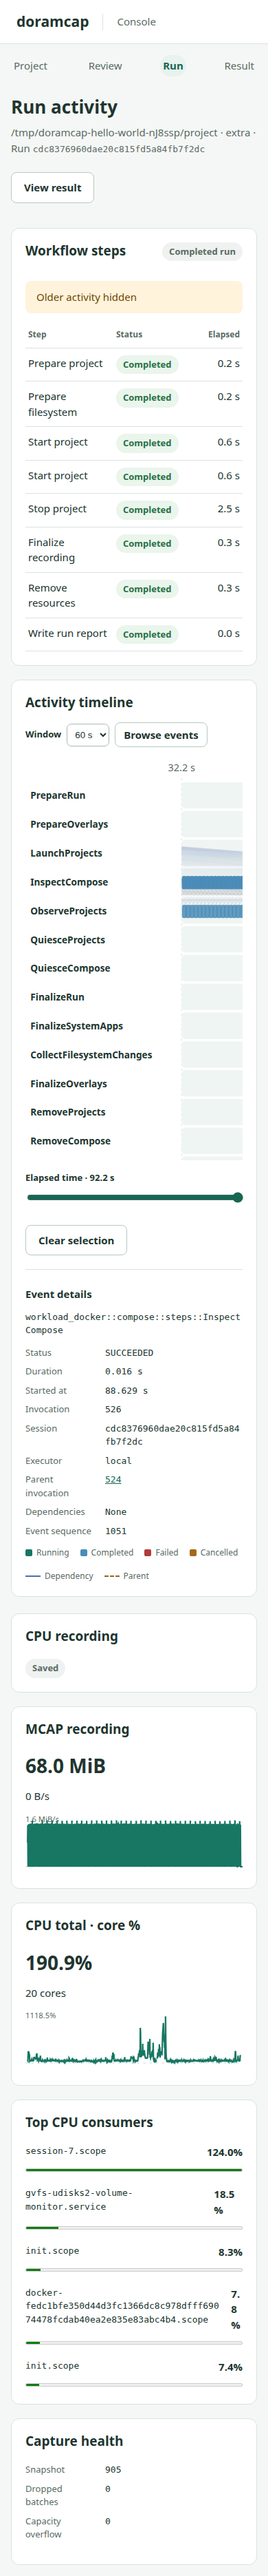
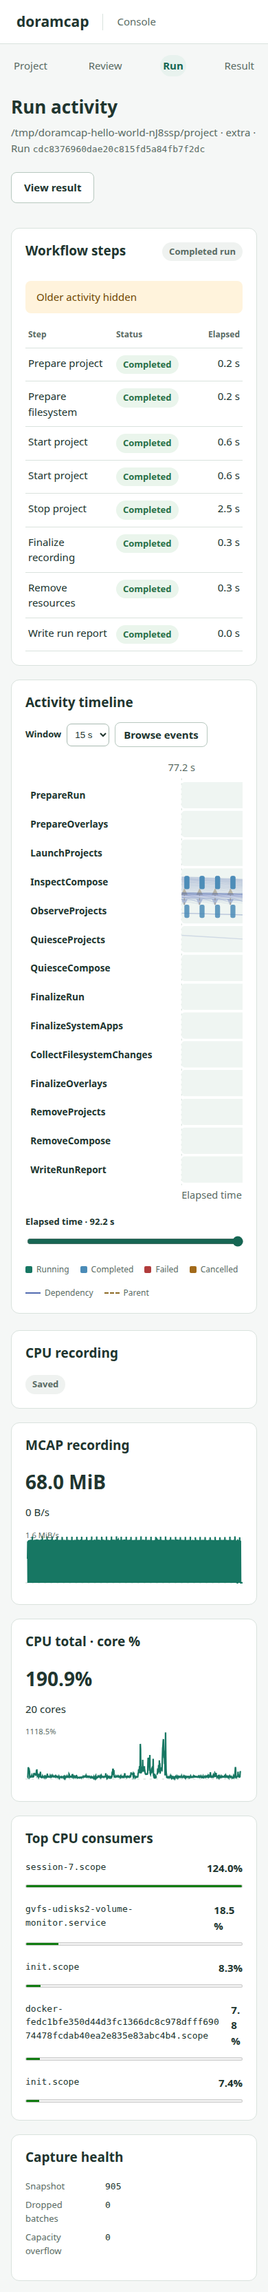
Let the activity timeline card expand to fit its rows

diff --git a/console/frontend/src/ui/tokens.css b/console/frontend/src/ui/tokens.css
@@ -1,5 +1,5 @@
 :root{font-family:system-ui,-apple-system,BlinkMacSystemFont,"Segoe UI",sans-serif;color:#20352f;background:#f5f7f6;font-size:15px;line-height:1.5}*{box-sizing:border-box}body{margin:0}button,input{font:inherit}button,a,input{outline-offset:2px}button:focus-visible,a:focus-visible,input:focus-visible{outline:2px solid #166653}.topbar{height:64px;background:#fff;border-bottom:1px solid #d9e2dd;display:flex;align-items:center;gap:20px;padding:0 48px;color:#596b64}.topbar strong{font-size:21px;color:#20352f}.divider{height:24px;width:1px;background:#d9e2dd}.host{margin-left:auto;font-size:13px}.page{max-width:1200px;margin:auto;padding:20px 64px 64px}.phase-rail{display:flex;gap:24px;align-items:center;flex-wrap:wrap;margin-bottom:28px}.phase{display:flex;gap:9px;align-items:center;padding:6px 8px;border-radius:16px;color:#596b64}.phase small{font-size:12px;font-weight:600}.phase.current{background:#e8f2ee;color:#166653;font-weight:600}.heading{display:flex;justify-content:space-between;align-items:flex-start;gap:24px;margin-bottom:36px}.heading h1{margin:0;font-size:30px;line-height:1.25;font-weight:650}.heading p{margin:10px 0 0;color:#596b64}.columns{display:grid;grid-template-columns:minmax(0,2.05fr) minmax(0,1fr);gap:24px;align-items:start}.columns>div,.columns>aside{display:grid;gap:20px}.panel{background:#fff;border:1px solid #d9e2dd;border-radius:12px;padding:28px;min-width:0}.panel h2{font-size:19px;line-height:1.3;margin:0 0 20px}.panel h3{font-size:15px;margin:24px 0 8px}.panel p{margin:12px 0}.panel-heading{display:flex;justify-content:space-between;align-items:flex-start;gap:12px}.muted{color:#596b64}.mono{font-family:ui-monospace,SFMono-Regular,Consolas,monospace;font-size:13px}.break{overflow-wrap:anywhere}label,legend{font-size:13px;font-weight:600;display:block;margin:20px 0 8px}input:not([type=checkbox]){width:100%;height:44px;border:1px solid #a8bab1;border-radius:8px;padding:0 12px;color:#20352f;background:#fff}fieldset{border:0;padding:0;margin:20px 0}.checkbox{display:flex;align-items:center;gap:10px;font-weight:400;margin:10px 0}.checkbox input{width:18px;height:18px;accent-color:#166653}.actions{display:flex;align-items:center;gap:12px;flex-wrap:wrap;margin-top:24px}.button{min-height:44px;border:1px solid transparent;border-radius:8px;padding:10px 18px;display:inline-flex;align-items:center;justify-content:center;font-weight:600;text-decoration:none;cursor:pointer}.button.primary{background:#166653;color:white}.button.secondary,.button.stop{background:#fff;border-color:#b7c8bf;color:#20352f}.button.stop{color:#8b5a13}.button:disabled{cursor:not-allowed;opacity:.55}.status{display:inline-block;border-radius:16px;padding:4px 10px;font-size:13px;font-weight:600;white-space:nowrap}.status.active{color:#166653;background:#e8f2ee}.status.success{color:#267047;background:#eaf5ec}.status.attention{color:#8b5a13;background:#fff3dc}.status.failure{color:#a33636;background:#fbecec}.status.neutral{color:#596b64;background:#eff2f0}.notice{padding:12px 16px;background:#fff3dc;color:#714800;border-radius:8px;margin:0 0 20px;overflow-wrap:anywhere}.failure-notice{background:#fbecec;color:#8b2929}.attention-panel{border-color:#e7c99b;background:#fffaf1}.table-wrap{max-width:100%}table{border-collapse:collapse;width:100%;table-layout:fixed}th,td{border-bottom:1px solid #d9e2dd;text-align:left;padding:12px 8px;vertical-align:top;overflow-wrap:anywhere}th{font-size:12px;color:#596b64}td .status{white-space:normal}.duration{text-align:right;width:90px}.outcomes{display:grid;gap:0}.outcomes>div{display:flex;align-items:center;justify-content:space-between;gap:12px;padding:12px 0;border-bottom:1px solid #d9e2dd}.unavailable{color:#596b64;font-size:14px}.sr-only{position:absolute;width:1px;height:1px;padding:0;margin:-1px;overflow:hidden;clip:rect(0,0,0,0);white-space:nowrap;border:0}@media(max-width:900px){.page{padding:20px 24px 48px}.columns{grid-template-columns:1fr}.heading{flex-wrap:wrap}.topbar{padding:0 24px}.phase-rail{gap:8px}.host{display:none}}@media(max-width:480px){.page{padding:16px}.panel{padding:20px}.heading h1{font-size:26px}.phase{padding:4px}.phase-rail{justify-content:space-between}.phase small{display:none}.button{max-width:100%}th,td{padding:10px 4px}.duration{width:60px}}
-.activity-heading{align-items:center;flex-wrap:wrap}.activity-heading h2{margin-bottom:4px}.activity-heading p{margin:0;font-size:13px}.timeline-controls{display:flex;align-items:center;gap:8px;flex-wrap:wrap}.timeline-controls label{margin:0;font-size:13px}.timeline-controls select{border:1px solid #a8bab1;border-radius:7px;background:#fff;color:#20352f;padding:7px}.timeline-toggle{min-height:36px;padding:6px 12px}.activity-scroll{overflow:auto;max-height:600px}.activity-timeline{display:block;width:100%;height:auto;margin-top:20px}.timeline-grid{stroke:#cadad2;stroke-dasharray:3 5}.timeline-lane{fill:#eff5f2}.timeline-axis{font-size:16px;fill:#596b64}.timeline-lane-label{font-size:15px;fill:#20352f;font-weight:600}.timeline-empty{font-size:13px;fill:#596b64}.timeline-legend{display:flex;flex-wrap:wrap;gap:16px;font-size:12px;color:#596b64}.timeline-legend span{display:inline-flex;align-items:center;gap:6px}.timeline-key{width:10px;height:10px;border-radius:2px}.timeline-key.running{background:#177763}.timeline-key.completed{background:#4a8bb7}.timeline-key.failed{background:#b13c3c}.timeline-key.cancelled{background:#a26a1a}@media(max-width:480px){.activity-timeline{min-width:900px}.activity-heading{align-items:flex-start}.timeline-controls{width:100%}}
+.activity-heading{align-items:center;flex-wrap:wrap}.activity-heading h2{margin-bottom:4px}.activity-heading p{margin:0;font-size:13px}.timeline-controls{display:flex;align-items:center;gap:8px;flex-wrap:wrap}.timeline-controls label{margin:0;font-size:13px}.timeline-controls select{border:1px solid #a8bab1;border-radius:7px;background:#fff;color:#20352f;padding:7px}.timeline-toggle{min-height:36px;padding:6px 12px}.activity-scroll{overflow-x:auto}.activity-timeline{display:block;width:100%;height:auto;margin-top:20px}.timeline-grid{stroke:#cadad2;stroke-dasharray:3 5}.timeline-lane{fill:#eff5f2}.timeline-axis{font-size:16px;fill:#596b64}.timeline-lane-label{font-size:15px;fill:#20352f;font-weight:600}.timeline-empty{font-size:13px;fill:#596b64}.timeline-legend{display:flex;flex-wrap:wrap;gap:16px;font-size:12px;color:#596b64}.timeline-legend span{display:inline-flex;align-items:center;gap:6px}.timeline-key{width:10px;height:10px;border-radius:2px}.timeline-key.running{background:#177763}.timeline-key.completed{background:#4a8bb7}.timeline-key.failed{background:#b13c3c}.timeline-key.cancelled{background:#a26a1a}@media(max-width:480px){.activity-timeline{min-width:900px}.activity-heading{align-items:flex-start}.timeline-controls{width:100%}}
 .timeline-event{cursor:pointer}.timeline-event:focus-visible{outline:3px solid #20352f;outline-offset:3px}.detail-grid{display:grid;grid-template-columns:minmax(0,1fr) minmax(0,2fr);gap:8px 16px;font-size:13px}.detail-grid dt{color:#596b64}.detail-grid dd{margin:0;overflow-wrap:anywhere;font-family:ui-monospace,SFMono-Regular,Consolas,monospace}.event-details{border-top:1px solid #d9e2dd;margin-top:20px}.timeline-position{margin:16px 0}.timeline-position input[type=range]{display:block;width:100%;padding:0;height:32px;accent-color:#166653}.metric-value{font-size:28px;font-weight:650}.metric-chart{display:block;width:100%;height:auto}.metric-scale{font-size:10px;fill:#596b64}.phase-link{font:inherit;border:0;background:transparent;cursor:pointer}.phase-link:hover{background:#e8f2ee}.run-view-actions{display:flex;gap:12px;flex-wrap:wrap}
 
 .event-relation{border:0;padding:0;background:transparent;color:#166653;text-decoration:underline;cursor:pointer;font:inherit;display:block;overflow-wrap:anywhere;text-align:left}

diff --git a/console/docs/102926-console-mvp.md b/console/docs/102926-console-mvp.md
@@ -823,3 +823,28 @@ capability, CUDA and high-memlock tests and second-machine browser skips remain
 unchanged. Logs: `/tmp/console-order-*.log`.
 
 - [x] Record final-source local CI and ARM64 results.
+
+## M15 — Expanding activity card
+
+**Work items**
+
+- [x] Remove the timeline's 600 px height limit and internal vertical scrolling.
+  Let the activity card grow with its rows; retain horizontal scrolling on
+  narrow screens.
+
+**Validation**
+
+24 frontend tests and the production build passed. Chromium measured matching
+container/content heights at 1200 px (482/482 px) and 390 px (664/664 px), with
+no maximum height or internal vertical overflow. Document width matched each
+viewport. The hosted static assets and completed-activity screenshots are updated.
+
+- [x] Verify card expansion and narrow-screen containment in the packaged app.
+Full local CI passed on the final application source: both Clippy/workspace
+configurations, storage without default features, examples/binaries, formatting,
+boundaries and snapshot synchronization (CI profile, locked dependencies,
+unprivileged builds). ARM64 job 522 passed. Existing ignored capability/CUDA/
+high-memlock cases and the second-machine browser skip remain unchanged. Logs:
+`/tmp/console-expand-*.log`.
+
+- [x] Record final-source local CI and ARM64 results.
